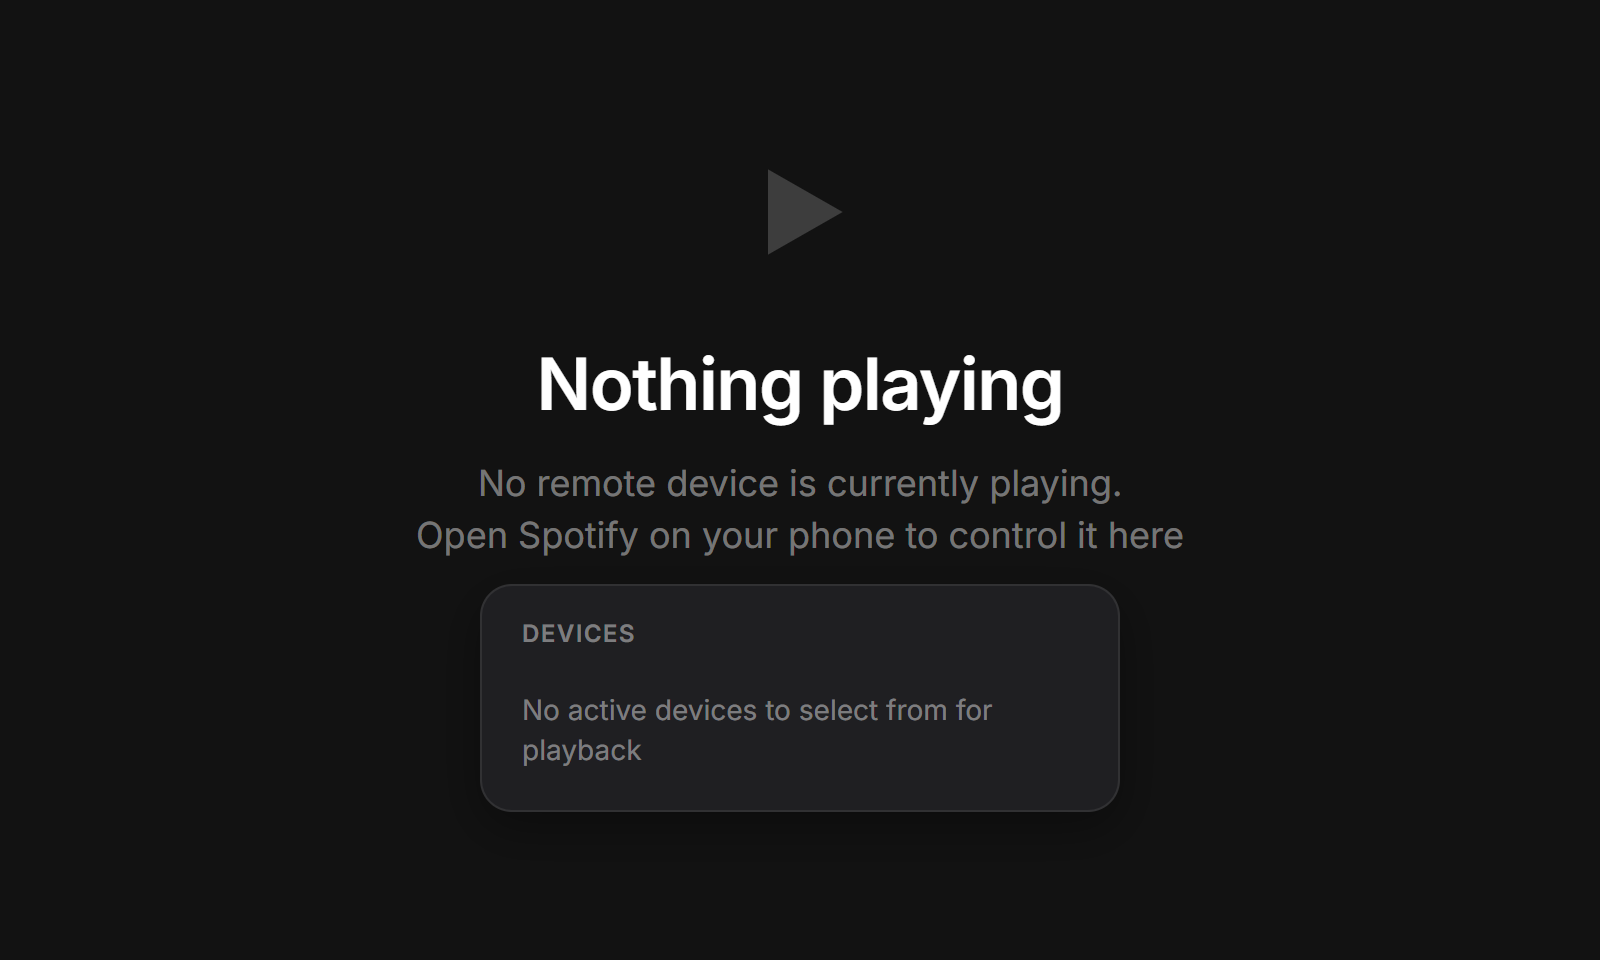
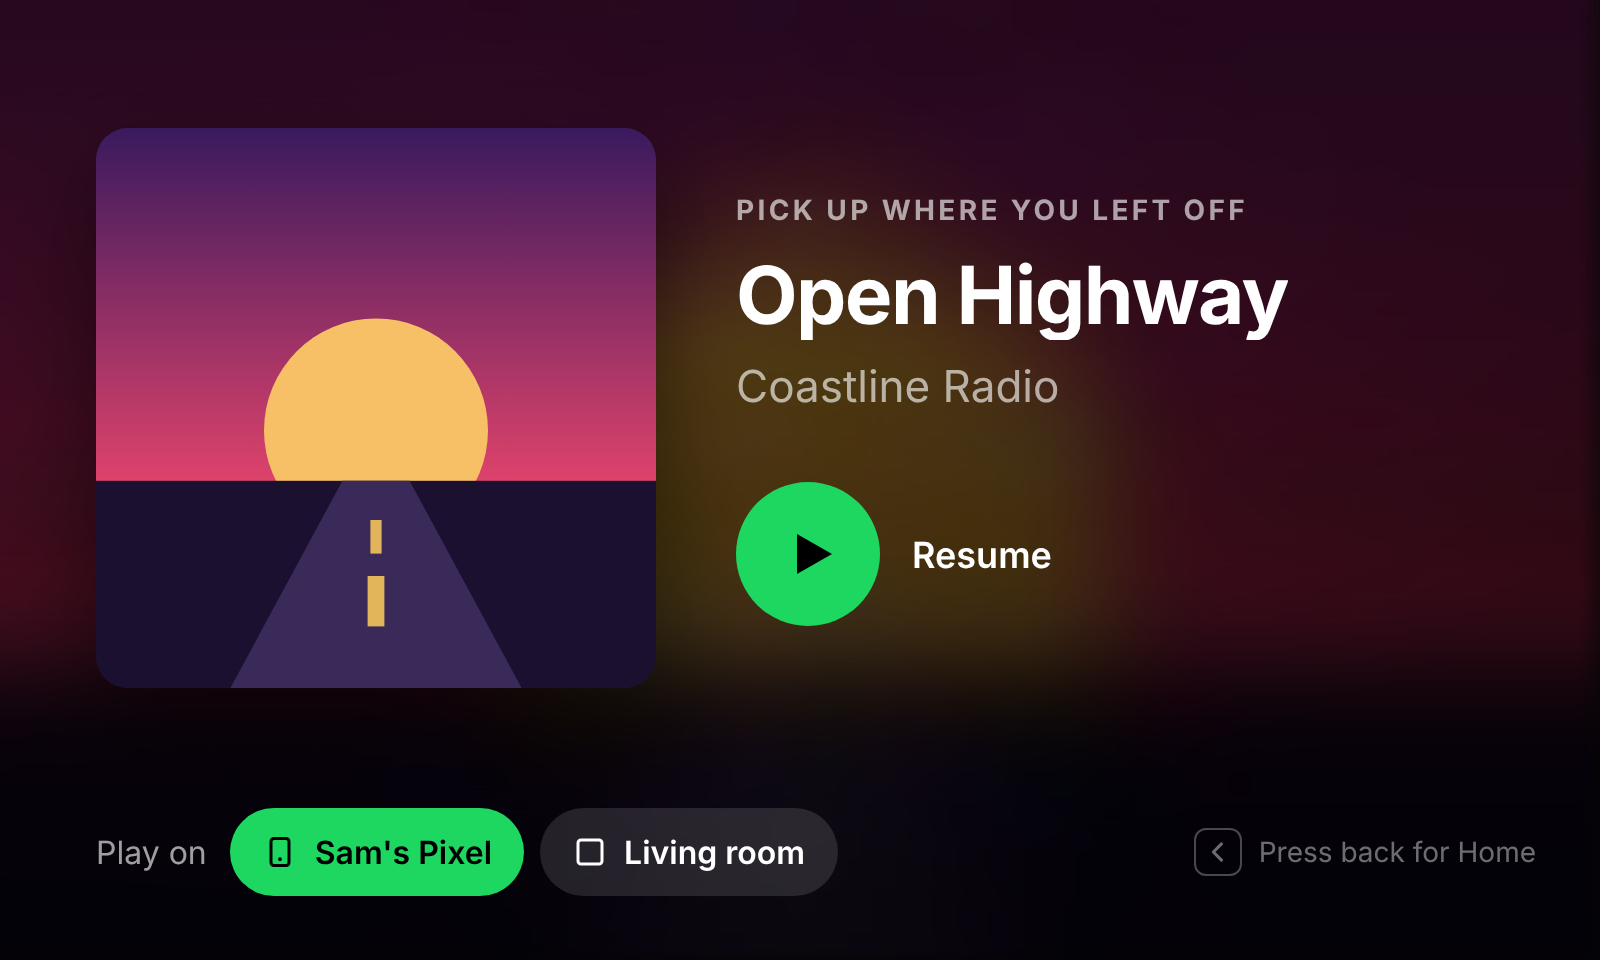
Website: 1.0.5's features on How to use
- Talking to Wisp: the music dips while it listens, tap above the bar to
  stop it, and Liked Songs / Spotify's mixes by voice.
- Settings and updates: updates ask first, the auto-install tick, the
  download cloud, and the last-song screen.
- New pictures of the last-song screen and the update card.

Claude-Session: https://claude.ai/code/session_014AnyBR8jm1c8a5TwMw684b

diff --git a/docs/use.html b/docs/use.html
@@ -106,10 +106,11 @@
 
   <section id="voice" class="gstep">
     <h2><span class="num">04</span>Talking to Wisp</h2>
-    <p>Say <b>"Okay Wisp"</b>, or press the voice button, then ask the way you'd ask a person. The words show along the bottom, and Wisp answers on screen and out loud (Settings → Wisp's voice).</p>
+    <p>Say <b>"Okay Wisp"</b>, or press the voice button, then ask the way you'd ask a person. The music dips while Wisp listens, so it hears you (or pauses, or stays as it is: Settings → Wisp's voice → Music while listening). The words show along the bottom, and Wisp answers on screen and out loud (Settings → Wisp's voice). Changed your mind? Tap anywhere above Wisp's bar and it stops listening.</p>
     <div class="table">
       <div class="row head"><span>Try</span><span>What happens</span></div>
       <div class="row"><span>"Play my road trip playlist" · "I wanna hear Daft Punk"</span><span>Plays it, from your library first.</span></div>
+      <div class="row"><span>"Play my liked songs" · "shuffle my Discover Weekly" · "play Daily Mix 2"</span><span>Your Liked Songs and the mixes Spotify makes for you.</span></div>
       <div class="row"><span>"Play the album" · "no, the other one"</span><span>Follows on from what you just asked.</span></div>
       <div class="row"><span>"Queue Midnight City" · "like this" · "add this to my gym playlist"</span><span>Up next, Liked Songs, a playlist.</span></div>
       <div class="row"><span>"Who sings this?" · "what's the weather?"</span><span>Answers.</span></div>
@@ -197,7 +198,8 @@
     <div class="two align">
       <div>
         <p><b>Home → Settings</b>: brightness and auto brightness, night mode at sunset, accent colour, performance mode, lyrics, volume per turn, the top buttons, Wisp's voice, navigation, notifications and more. Your phone keeps a copy, so a reset or reflash doesn't lose them.</p>
-        <p><b>Updates</b> come over the air: Settings → Software update, or automatically if you allow it. When nothing's playing, the <b>screensaver</b> shows the clock and the weather.</p>
+        <p><b>Updates</b> come over the air. When a new Wisp is out, the Car Thing tells you what's new and asks: install it now or later. Tick <b>Download and install updates automatically</b> on that card (or in Settings → Software update) and later ones install by themselves. A cloud pulses by the battery while one downloads.</p>
+        <p>When nothing's playing, the Car Thing shows the <b>last song you played</b>: press Resume to pick up where you left off, pick a phone or speaker to play it on, or press back for Home. After a while the <b>screensaver</b> shows the clock and the weather.</p>
       </div>
       <img class="shot-doc" src="screenshots/settings.png" alt="Settings" loading="lazy">
     </div>

diff --git a/docs/index.html b/docs/index.html
@@ -202,7 +202,7 @@
       <figure><img src="screenshots/settings.png" alt="" loading="lazy"><figcaption>Settings</figcaption></figure>
       <figure><img src="screenshots/power-menu.png" alt="" loading="lazy"><figcaption>The power menu</figcaption></figure>
       <figure><img src="screenshots/update.png" alt="" loading="lazy"><figcaption>Updates over the air</figcaption></figure>
-      <figure><img src="screenshots/idle.png" alt="" loading="lazy"><figcaption>Waiting for music</figcaption></figure>
+      <figure><img src="screenshots/idle.png" alt="" loading="lazy"><figcaption>Pick up where you left off</figcaption></figure>
       <figure><img src="screenshots/addons-list.png" alt="" loading="lazy"><figcaption>Your add-ons</figcaption></figure>
       <figure><img src="screenshots/addons-catalog.png" alt="" loading="lazy"><figcaption>Getting add-ons</figcaption></figure>
     </div>
